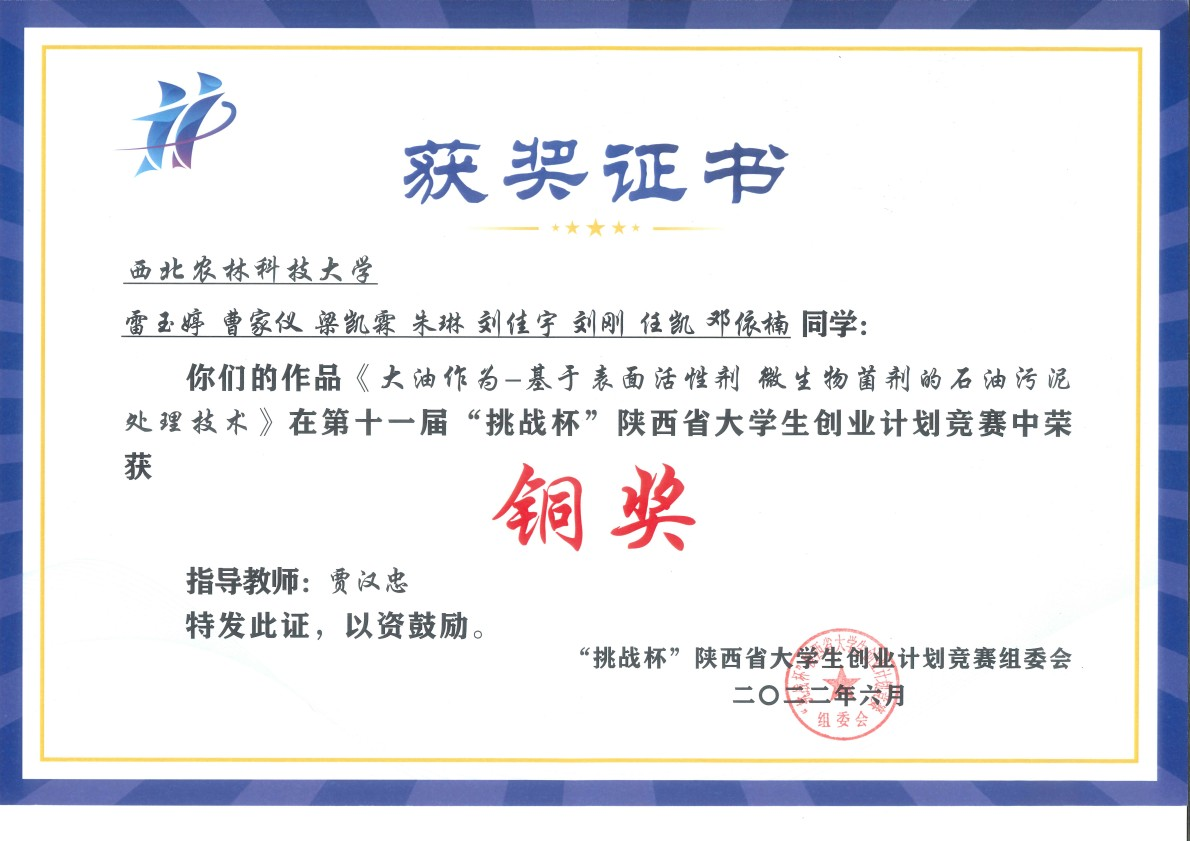
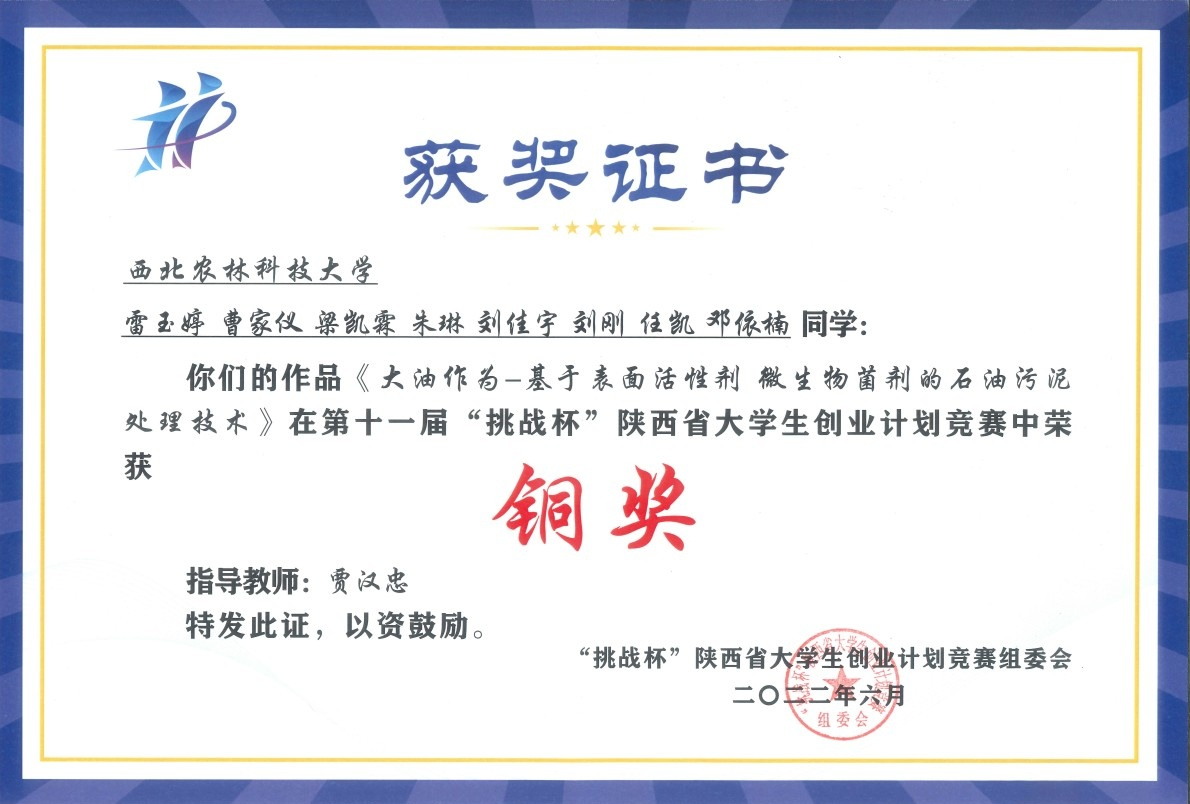
add Awards

diff --git a/index.html b/index.html
@@ -607,37 +607,66 @@
 					Australia, with
 					the theme of Geospatial Big Data and Artificial
 					Intelligence for Cities</li>
-				<li><b>2022</b>&nbsp;&nbsp;&nbsp;&nbsp;Won the Bronze Award in the 11th "Challenger Cup" Shaanxi
-					University Student Entrepreneurship Plan Competition</li>
-				<li><b>2022</b>&nbsp;&nbsp;&nbsp;&nbsp;Participated in the 10th Challenge Cup College Student
-					Entrepreneurship Plan Competition of Northwest A&F
-					University and won the silver award in the final</li>
-				<li><b>2021</b>&nbsp;&nbsp;&nbsp;&nbsp;First‐Class scholarship of Northwest A&F University</li>
-				<li><b>2019</b>&nbsp;&nbsp;&nbsp;&nbsp;Outstanding graduate of Nanjing Normal University</li>
-				<li><b>2018</b>&nbsp;&nbsp;&nbsp;&nbsp;Excellent postgraduate of Nanjing Normal University (Four times)
+				<li><b>2022</b>&nbsp;&nbsp;&nbsp;&nbsp;<a href="images/2022_Provincial_Bronze_Award.jpg"
+						target="_blank">Won the Bronze Award in the 11th "Challenger Cup" Shaanxi
+						University Student Entrepreneurship Plan Competition</a></li>
+				<li><b>2022</b>&nbsp;&nbsp;&nbsp;&nbsp;<a href="images/2022_School_Silver_Award.jpg"
+						target="_blank">Participated in the 10th Challenge Cup College Student
+						Entrepreneurship Plan Competition of Northwest A&F
+						University and Won the Silver Award in the Final</a></li>
+				<li><b>2021</b>&nbsp;&nbsp;&nbsp;&nbsp;First‐Class Scholarship of Northwest A&F University</li>
+				<li><b>2019</b>&nbsp;&nbsp;&nbsp;&nbsp;<a href="images/2019_Excellent_graduate_student_of_NNU.jpg"
+						target="_blank">Outstanding Graduate of Nanjing Normal University</a></li>
+				<li><b>2018</b>&nbsp;&nbsp;&nbsp;&nbsp;Excellent Postgraduate of Nanjing Normal University (Four
+					times:<a href="images/2017_Excellent_graduate_student_at_school_level.jpg" target="_blank">2017
+						Shool-Level</a><a href="images/2017_Excellent_graduate_student_at_college_level.jpg"
+						target="_blank">2017
+						College-Level</a><a href="images/2018_Excellent_graduate_student_at_school_level.jpg"
+						target="_blank">2018 Shool-Level</a><a
+						href="images/2018_Excellent_graduate_student_at_college_level.jpg" target="_blank">2018
+						College-Level</a>
+					)
 				</li>
-				<li><b>2016</b>&nbsp;&nbsp;&nbsp;&nbsp;Outstanding Undergraduate Thesis of Northwest A&F University</li>
+				<li><b>2018</b>&nbsp;&nbsp;&nbsp;&nbsp;Excellent League Member of Nanjing Normal University (Two
+					times:<a href="images/2017_Excellent_League_member_at_school_level.jpg" target="_blank">2017
+						Shool-Level</a><a href="images/2018_Excellent_League_member_at_school_level.jpg"
+						target="_blank">2018
+						Shool-Level</a> )
+				</li>
 				<li><b>2016</b>&nbsp;&nbsp;&nbsp;&nbsp;First‐class scholarship of Nanjing Normal University (Two times)
 				</li>
-				<li><b>2016</b>&nbsp;&nbsp;&nbsp;&nbsp;The undergraduate thesis was awarded the excellent graduation
-					thesis of Northwest A&F University</li>
-				<li><b>2015</b>&nbsp;&nbsp;&nbsp;&nbsp;Organize the pastoral envoy team of Northwest A&F University and
-					won the "Excellent Award" at the university level</li>
-				<li><b>2015</b>&nbsp;&nbsp;&nbsp;&nbsp;The National Science and Technology Innovation Project Numerical
-					Simulation and Mechanism Research of Loess Slope Cultivated Land Microtopography won the Excellence
-					Award</li>
-				<li><b>2014</b>&nbsp;&nbsp;&nbsp;&nbsp;Organize the activity of Three Visits to the Countryside,
-					Investigation Service in Ansai Comprehensive Test Station of Soil and Water Conservation, and won
-					the Excellent Award at the school level</li>
+				<li><b>2016</b>&nbsp;&nbsp;&nbsp;&nbsp;<a href="images/2016_Class_deputy_league_secretary.jpg"
+						target="_blank">Served as the Deputy League Secretary of the Class</a></li>
+				<li><b>2016</b>&nbsp;&nbsp;&nbsp;&nbsp;<a href="images/2016_Excellent_Graduation_Thesis.jpg"
+						target="_blank">Outstanding Undergraduate Thesis of Northwest A&F University</a></li>
+				<li><b>2015</b>&nbsp;&nbsp;&nbsp;&nbsp;<a href="images/2015_Pastoral_envoy.jpg" target="_blank">Organize
+						the pastoral envoy team of Northwest A&F University and
+						won the "Excellent Award" at the university level</a></li>
+				<li><b>2015</b>&nbsp;&nbsp;&nbsp;&nbsp;<a
+						href="images/2015_National_science_and_innovation_projects.jpg" target="_blank">The National
+						Science and Technology Innovation Project Numerical
+						Simulation and Mechanism Research of Loess Slope Cultivated Land Microtopography won the
+						Excellence
+						Award</a></li>
+				<li><b>2014</b>&nbsp;&nbsp;&nbsp;&nbsp;<a href="images/2014_Excellent_League_member_at_school_level.jpg"
+						target="_blank">Excellent League Member of Northwest A&F University </a></li>
+				<li><b>2014</b>&nbsp;&nbsp;&nbsp;&nbsp;<a href="images/2014_School_level_social_practice_model.jpg"
+						target="_blank">Social
+						Practice Model of Northwest A & F University </a></li>
+				<li><b>2014</b>&nbsp;&nbsp;&nbsp;&nbsp;<a
+						href="images/2014_Volunteer_Activities_for_the_Country_People.jpg" target="_blank">Organize the
+						activity of Three Visits to the Countryside, Investigation Service in Ansai Comprehensive Test
+						Station of Soil and Water Conservation, and won
+						the Excellent Award at the school level</a></li>
 			</ul>
 
 			<h3>Some projects: </h3>
 			<ul class="disc">
 				<li><a href="http://you.renkaigis.cn/" target="_blank">Big Oil Benefits —— Oily Sludge
-						Remediation Expert </a><br /><a href="https://photo-kai.oss-cn-hangzhou.aliyuncs.com/1mine/2022_Provincial_Bronze_Award.jpg" target="_blank"
+						Remediation Expert </a><br /><a href="images/2022_Provincial_Bronze_Award.jpg" target="_blank"
 						style="text-decoration: underline;">
 						[ Provincial Bronze Award ]</a>&nbsp;&nbsp;&nbsp;&nbsp;&&nbsp;&nbsp;&nbsp;&nbsp;<a
-						href="https://photo-kai.oss-cn-hangzhou.aliyuncs.com/1mine/2022_School_Silver_Award.jpg" target="_blank" style="text-decoration: underline;">[
+						href="images/2022_School_Silver_Award.jpg" target="_blank" style="text-decoration: underline;">[
 						School Silver Award ]</a></li>
 				<li><a href="http://moyu.renkaigis.cn/" target="_blank">ShanMoShi —— Assisting the Development of the
 						Konjac Industry in
@@ -645,6 +674,17 @@
 					</a></li>
 				<li><a href="http://soildoc.renkaigis.cn/" target="_blank">SoilDoctor —— Soil Diagnosis Doctor </a>
 				</li>
+			</ul>
+
+			<h3>Hobbies: </h3>
+			<ul class="disc">
+				<li><a href="images/2018_Nanjing_Marathon.jpg" target="_blank">2018 Nanjing Marathon - 02:10:07</a></li>
+				<li><a href="images/2017_Nanjing_Marathon.jpg" target="_blank">2017 Nanjing Marathon - 02:27:05</a></li>
+				<li><a href="images/2017_Xianlin_Marathon.jpg" target="_blank">2017 Nanjing Xianlin Half Marathon -
+						02:23:39</a></li>
+				<li><a href="images/2013_3rd_ChinaDream.jpg" target="_blank">2013 Won the third prize of Shaanxi
+						University Photography Competition
+					</a></li>
 			</ul>
 		</div>
 

diff --git a/cn/index.html b/cn/index.html
@@ -540,31 +540,66 @@
 			<h3>学习活动：</h3>
 			<ul class="disc">
 				<li>2023 年澳大利亚珀斯举办的 City+ 城市研究国际青年学者会议的组织者之一（2023）</li>
-				<li>参与第十一届“挑战杯”陕西省大学生创业计划竞赛，并获省级铜奖（2022）</li>
-				<li>参与西北农林科技大学第十届挑战杯大学生创业计划竞赛，并获决赛银奖（2022）</li>
+				<li><a href="../images/2022_Provincial_Bronze_Award.jpg"
+						target="_blank">参与第十一届“挑战杯”陕西省大学生创业计划竞赛，并获省级铜奖（2022）</a></li>
+				<li><a href="../images/2022_School_Silver_Award.jpg"
+						target="_blank">参与西北农林科技大学第十届挑战杯大学生创业计划竞赛，并获决赛银奖（2022）</a></li>
 				<li>2021 年获专业一等奖学金</li>
 				<li>2016、2017 连续两年获专业一等奖学金</li>
-				<li>硕士毕业获南京师范大学 2019 届优秀研究生毕业生</li>
-				<li>五次获优秀研究生（2017校、2017院、2018校、2018院、2019校）</li>
-				<li>两次获校级优秀团员（2017、2018）</li>
-				<li>本科毕业论文获西北农林科技大学优秀毕业论文（2016）</li>
-				<li>组织西北农林科技大学田园使者团队，获校级“优秀奖”（2015）</li>
-				<li>主持并负责国家级科创项目《黄土坡耕地微地形数值模拟及机理研究》并获校级“优秀奖”（2014）</li>
-				<li>组织三下乡活动“赴安塞水土保持综合试验站调研服务”并获校级“优秀奖”（2014）</li>
+				<li><a href="../images/2019_Excellent_graduate_student_of_NNU.jpg" target="_blank">硕士毕业获南京师范大学 2019
+						届优秀研究生毕业生</a></li>
+				<li><b>2018</b>&nbsp;&nbsp;&nbsp;&nbsp;四次获优秀研究生（<a
+						href="../images/2017_Excellent_graduate_student_at_school_level.jpg" target="_blank">2017
+						校级</a><a href="../images/2017_Excellent_graduate_student_at_college_level.jpg"
+						target="_blank">2017
+						院级</a><a href="../images/2018_Excellent_graduate_student_at_school_level.jpg"
+						target="_blank">2018
+						校级</a><a href="../images/2018_Excellent_graduate_student_at_college_level.jpg"
+						target="_blank">2018
+						院级</a>
+					）
+				</li>
+				<li><b>2018</b>&nbsp;&nbsp;&nbsp;&nbsp;两次获校级优秀团员（Two
+					times:<a href="../images/2017_Excellent_League_member_at_school_level.jpg" target="_blank">2017
+						校级</a><a href="../images/2018_Excellent_League_member_at_school_level.jpg" target="_blank">2018
+						校级</a>
+				</li>
+				<li><b>2016</b>&nbsp;&nbsp;&nbsp;&nbsp;<a href="..images/2016_Class_deputy_league_secretary.jpg"
+						target="_blank">担任班级副团支书</a></li>
+				<li><a href="../images/2016_Excellent_Graduation_Thesis.jpg"
+						target="_blank">本科毕业论文获西北农林科技大学优秀毕业论文（2016）</a></li>
+				<li><a href="../images/2015_Pastoral_envoy.jpg" target="_blank">组织西北农林科技大学田园使者团队，获校级“优秀奖”（2015）</a></li>
+				<li><a href="../images/2015_National_science_and_innovation_projects.jpg"
+						target="_blank">主持并负责国家级科创项目《黄土坡耕地微地形数值模拟及机理研究》并获校级“优秀奖”（2015）</a></li>
+				<li><a href="../images/2014_Excellent_League_member_at_school_level.jpg"
+						target="_blank">西北农林科技大学优秀团员（2014）</a></li>
+				<li><a href="../images/2014_School_level_social_practice_model.jpg"
+						target="_blank">西北农林科技大学社会实践标兵（2014）</a></li>
+				<li><a href="../images/2014_Volunteer_Activities_for_the_Country_People.jpg"
+						target="_blank">组织三下乡活动“赴安塞水土保持综合试验站调研服务”并获校级“优秀奖”（2014）</a></li>
 			</ul>
 
 			<h3>参与的一些小项目: </h3>
 			<ul class="disc">
 				<li><a href="http://you.renkaigis.cn/" target="_blank">大油作为 —— 含油污泥修复专家</a><br /><a
-						href="https://photo-kai.oss-cn-hangzhou.aliyuncs.com/1mine/2022_Provincial_Bronze_Award.jpg" target="_blank"
+						href="../images/2022_Provincial_Bronze_Award.jpg" target="_blank"
 						style="text-decoration: underline;">
 						[ 省级铜奖 ]</a>&nbsp;&nbsp;&nbsp;&nbsp;&&nbsp;&nbsp;&nbsp;&nbsp;<a
-						href="https://photo-kai.oss-cn-hangzhou.aliyuncs.com/1mine/2022_School_Silver_Award.jpg" target="_blank" style="text-decoration: underline;">[
+						href="../images/2022_School_Silver_Award.jpg" target="_blank"
+						style="text-decoration: underline;">[
 						校级银奖 ]</a></li>
 				<li><a href="http://moyu.renkaigis.cn/" target="_blank">擅魔师 —— 乡村振兴战略下助力镇巴县魔芋产业发展</a></li>
 				<li><a href="http://soildoc.renkaigis.cn/" target="_blank">果土绸缪 —— 土壤诊断医生</a>
 				</li>
 			</ul>
+			<h3>业余爱好： </h3>
+			<ul class="disc">
+				<li><a href="../images/2018_Nanjing_Marathon.jpg" target="_blank">2018 南京马拉松 - 02:10:07</a></li>
+				<li><a href="../images/2017_Nanjing_Marathon.jpg" target="_blank">2017 南京马拉松 - 02:27:05</a></li>
+				<li><a href="../images/2017_Xianlin_Marathon.jpg" target="_blank">2017 南京仙林半程马拉松 - 02:23:39</a></li>
+				<li><a href="../images/2013_3rd_ChinaDream.jpg" target="_blank">2013 陕西省高校大学生原创摄影比赛三等奖</a></li>
+			</ul>
+
 		</div>
 
 	</section> <!-- /features -->
